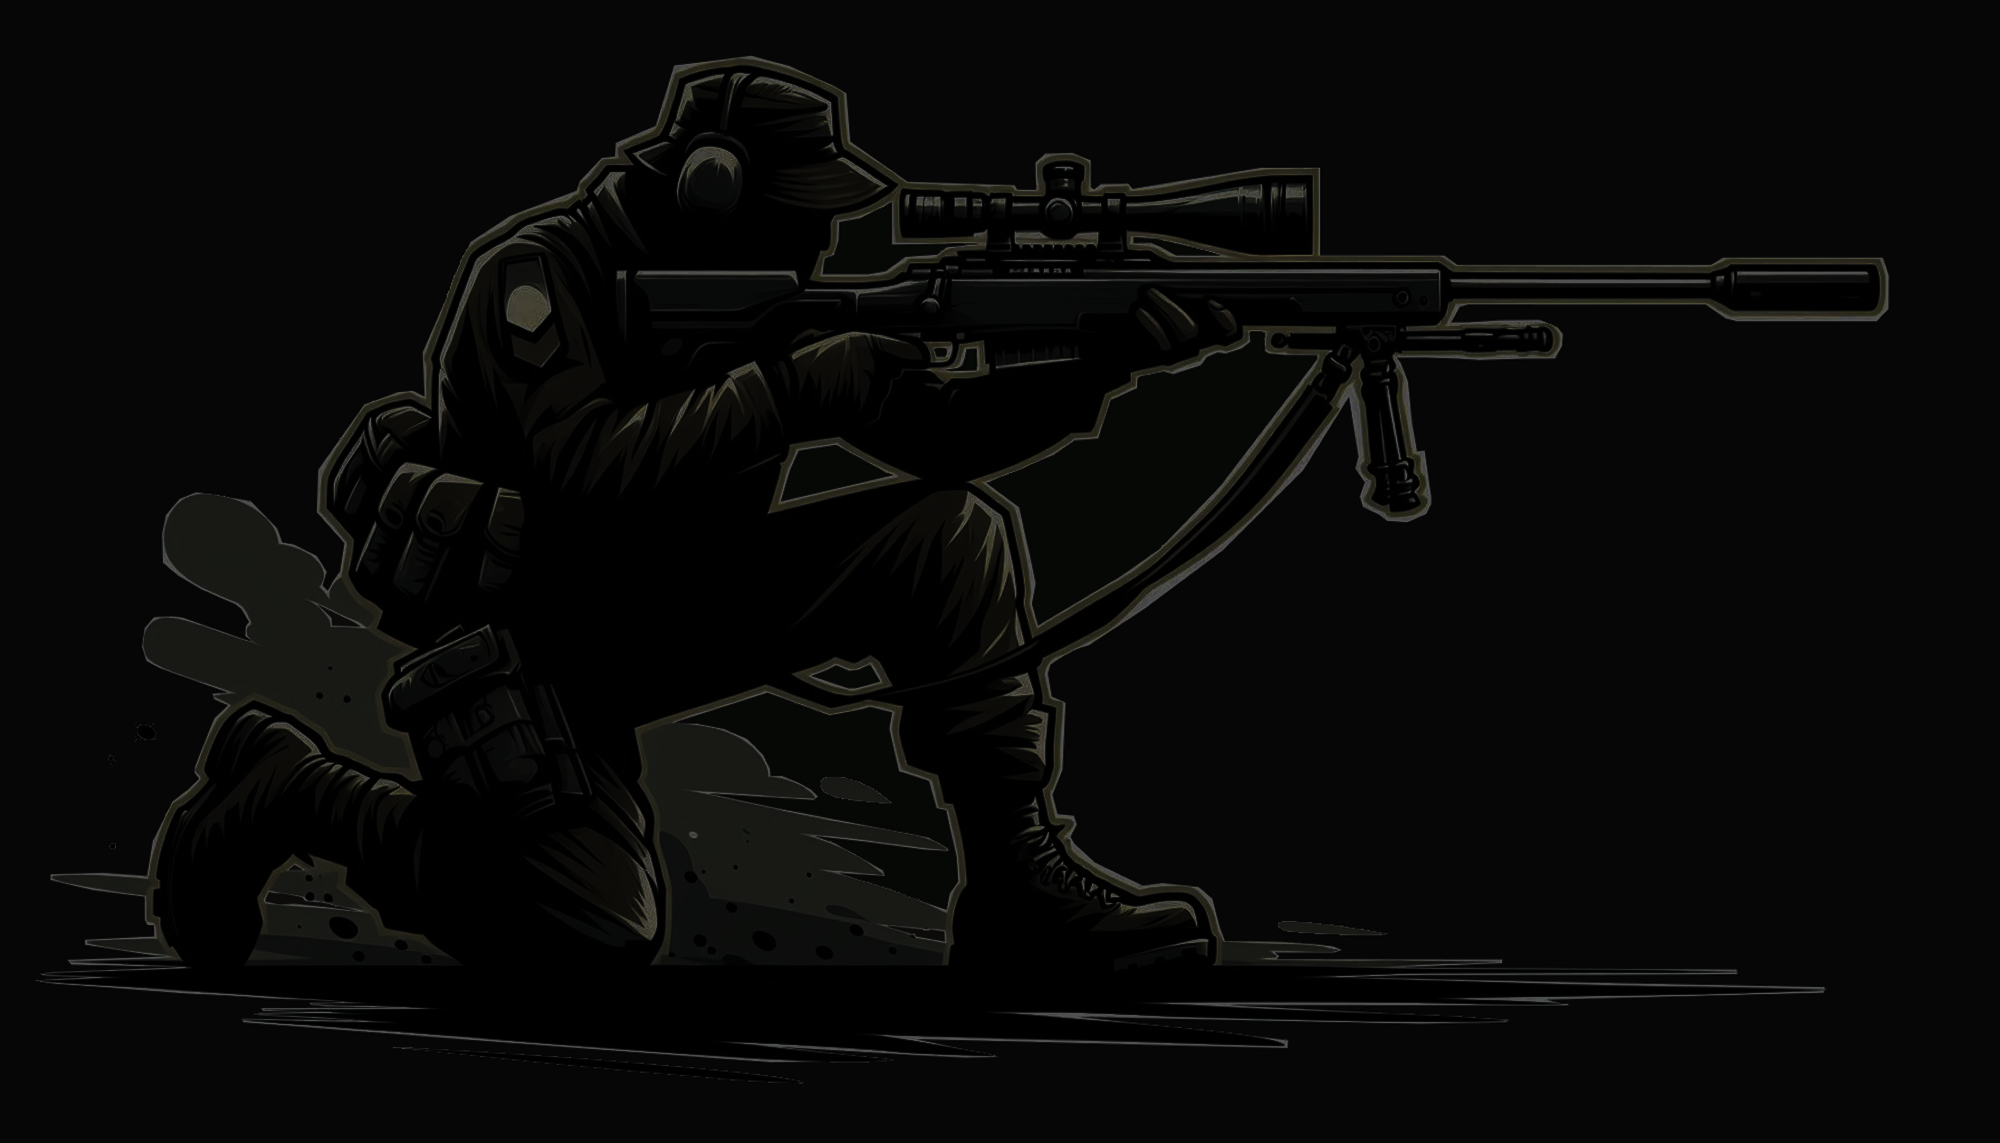
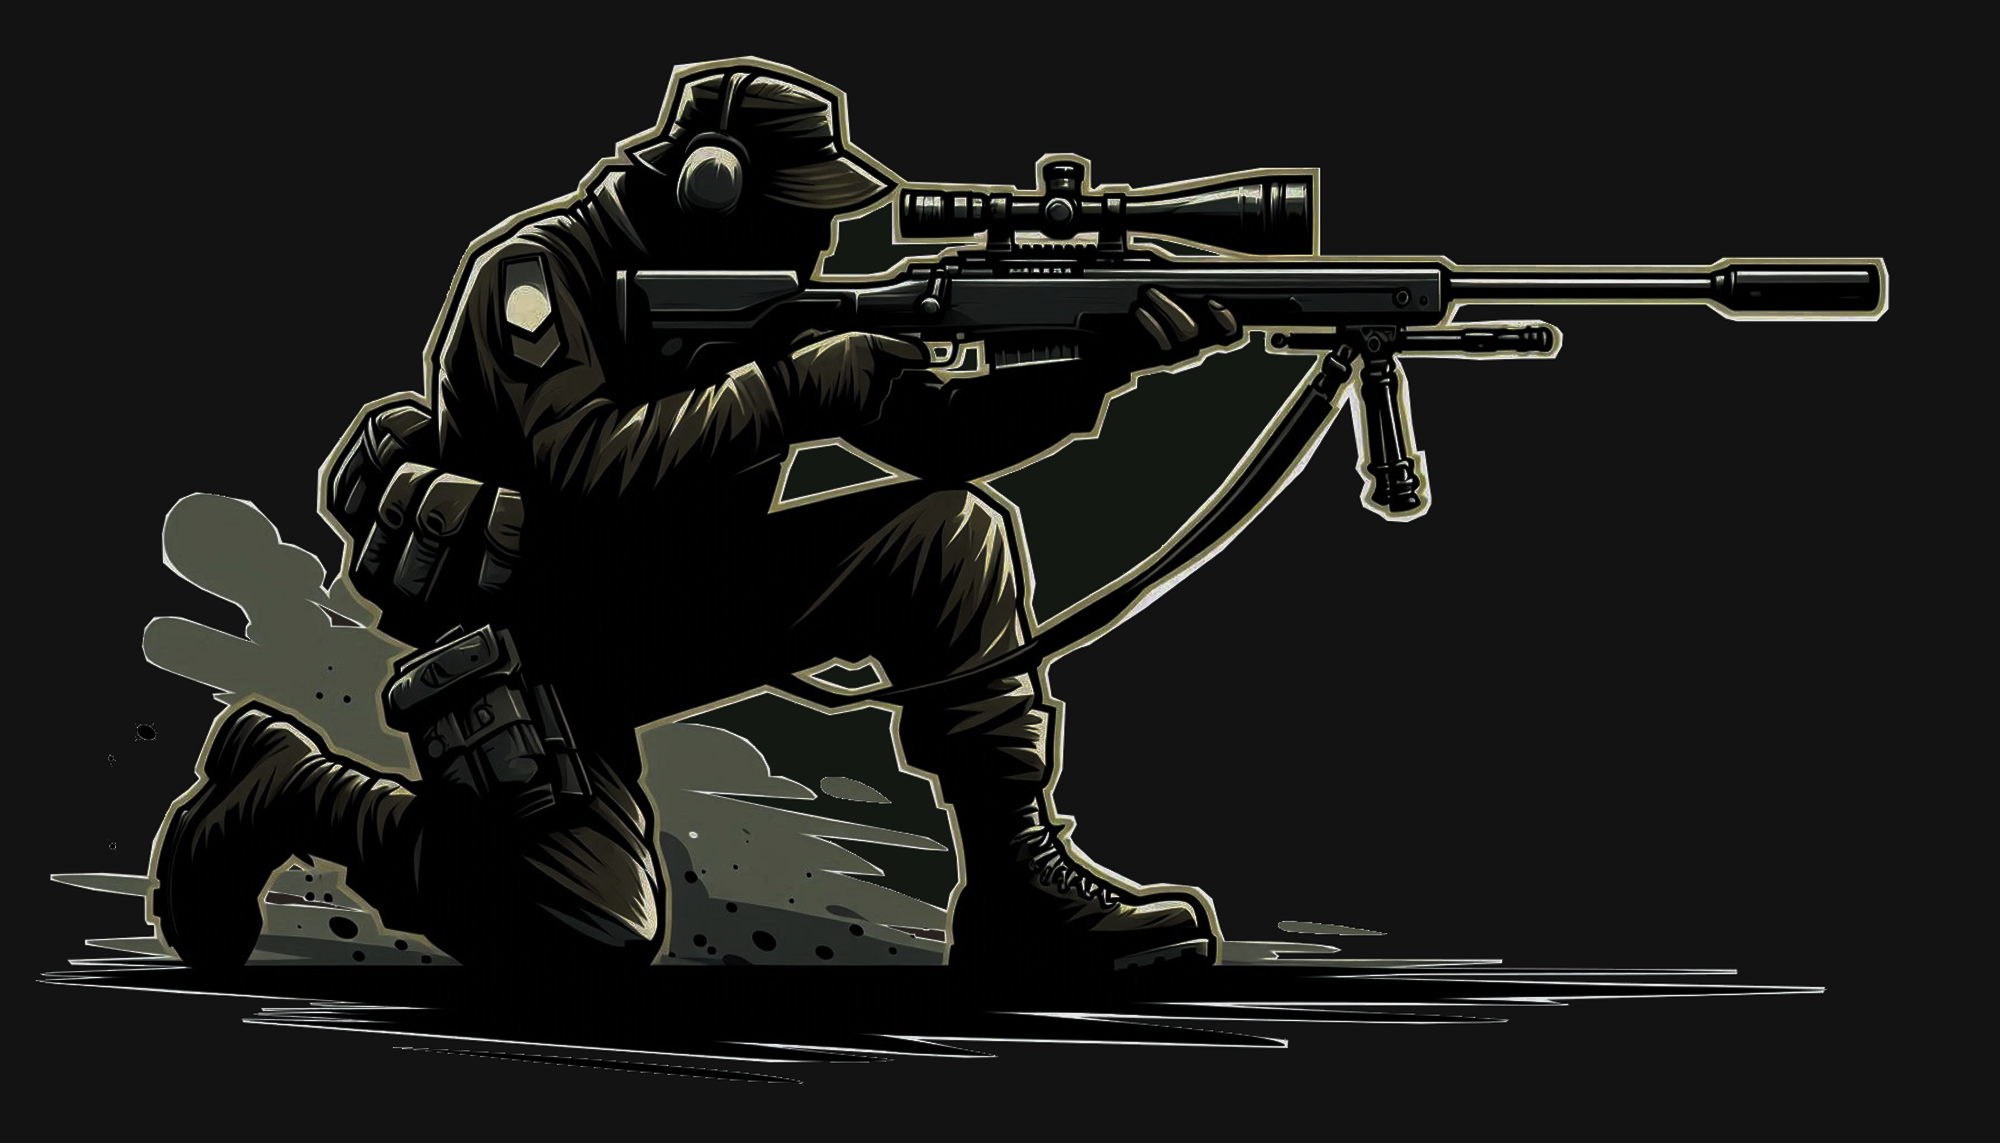
fix color

Changed region(s): [[0.031, 0.0306, 0.961, 0.9493], [0.527, 0.3368, 0.558, 0.3981]]

diff --git a/backend/public/styles/login.css b/backend/public/styles/login.css
@@ -19,7 +19,10 @@
     font-family: "Montserrat", sans-serif;
     font-weight: bold;
     font-size: 64px;
-    color: #A10003;
+    color: #000000;
+    background-color: #FFF;
+    border-radius: 20px;
+    padding: 0.5% 1%;
 }
 
 .form-auth {
@@ -35,7 +38,7 @@
     background-color: #FFF;
     font-family: "Inter", sans-serif;
     font-size: 30px;
-    color: #000;
+    color: #000000;
     padding-left: 3.163763216%;
     padding-bottom: 4%;
     padding-top: 4%;
@@ -47,7 +50,10 @@
     font-family: "Montserrat", sans-serif;
     font-weight: bold;
     font-size: 64px;
-    color: #A10003;
+    color: #000000;
+    background-color: #FFF;
+    border-radius: 20px;
+    padding: 0.5% 1%;
     text-decoration: none;
 }
 
